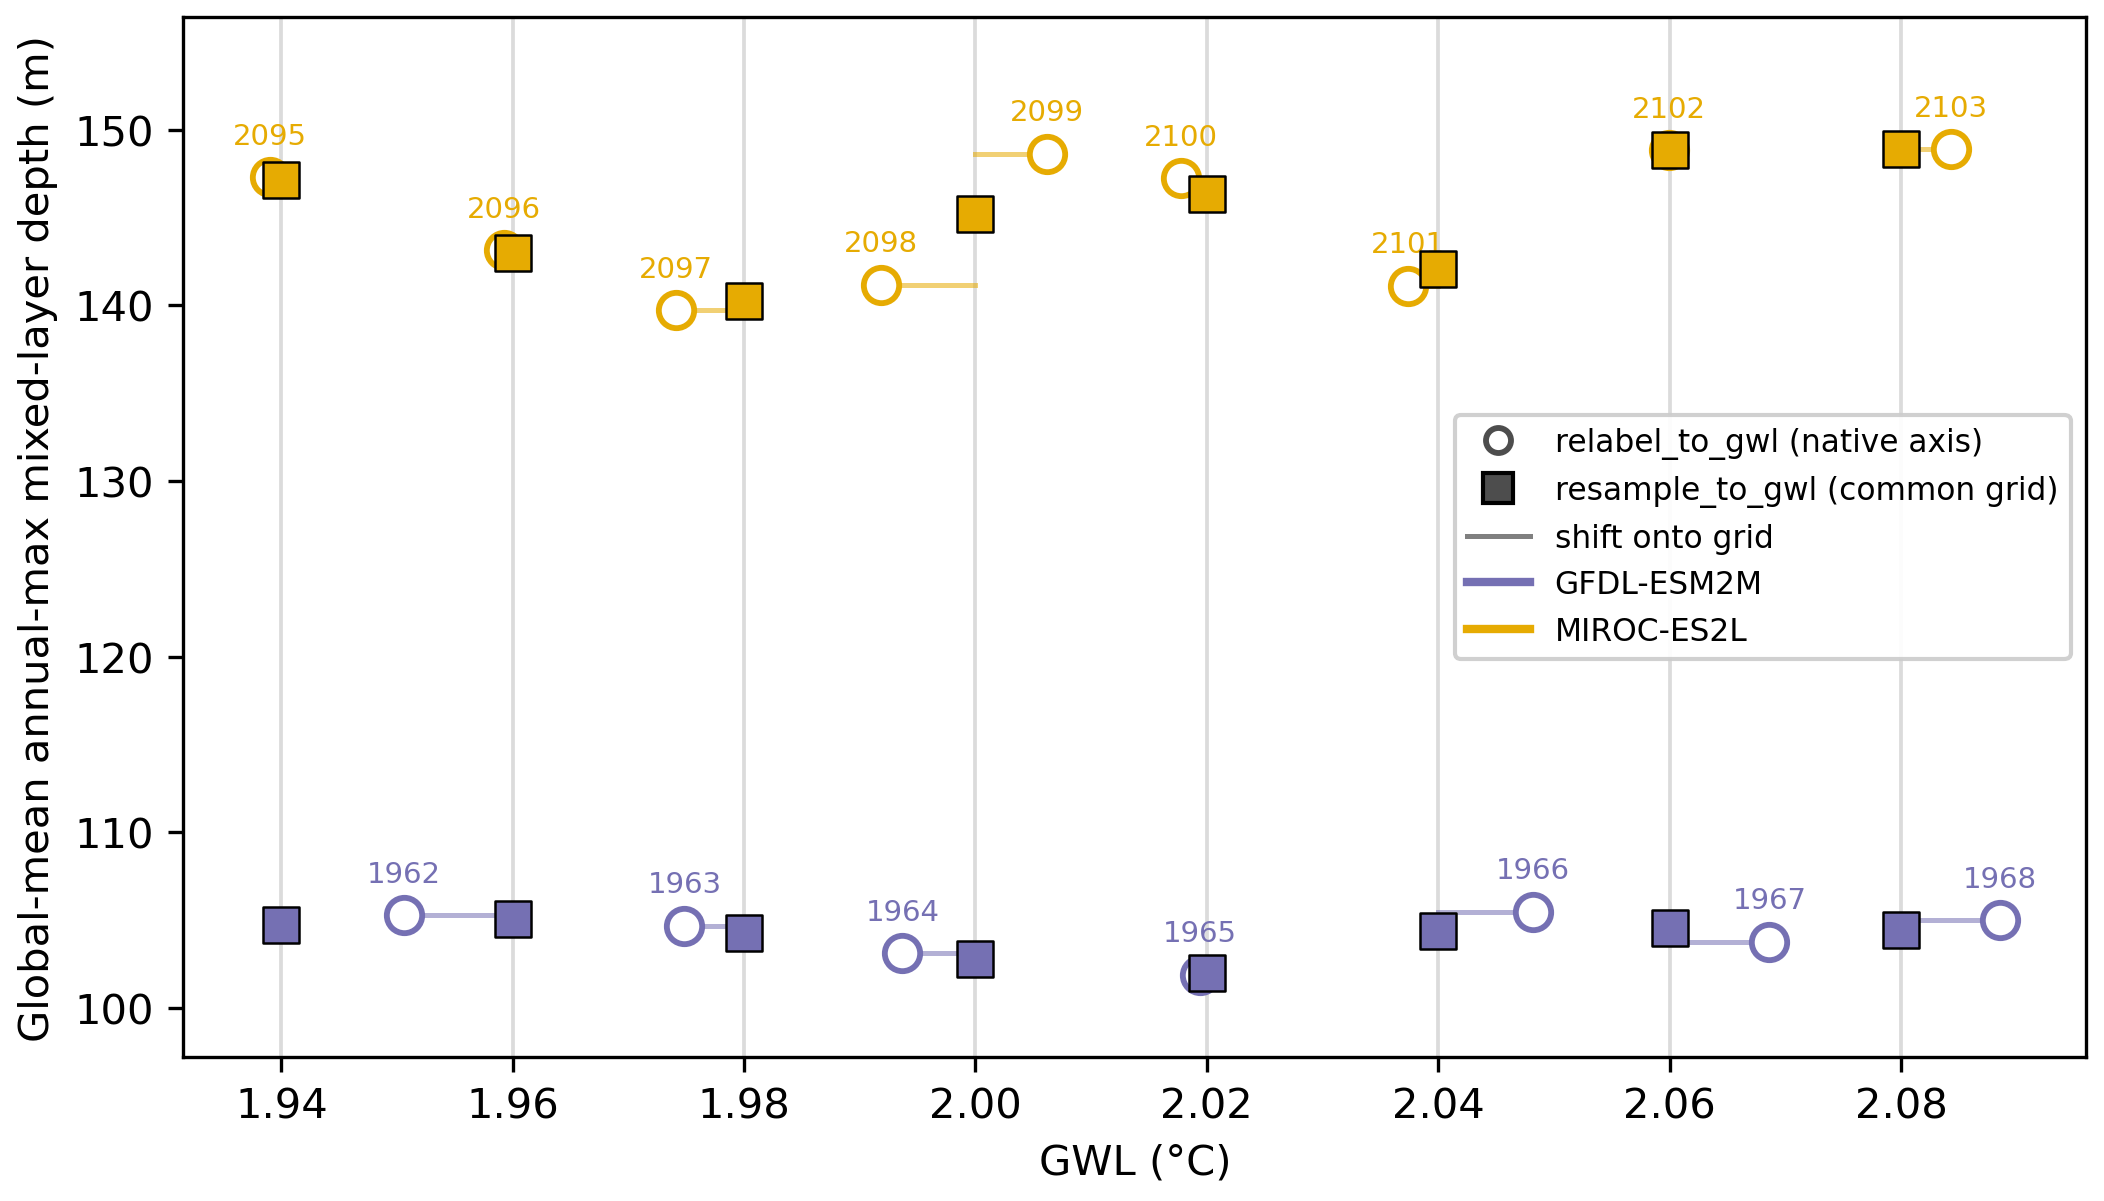
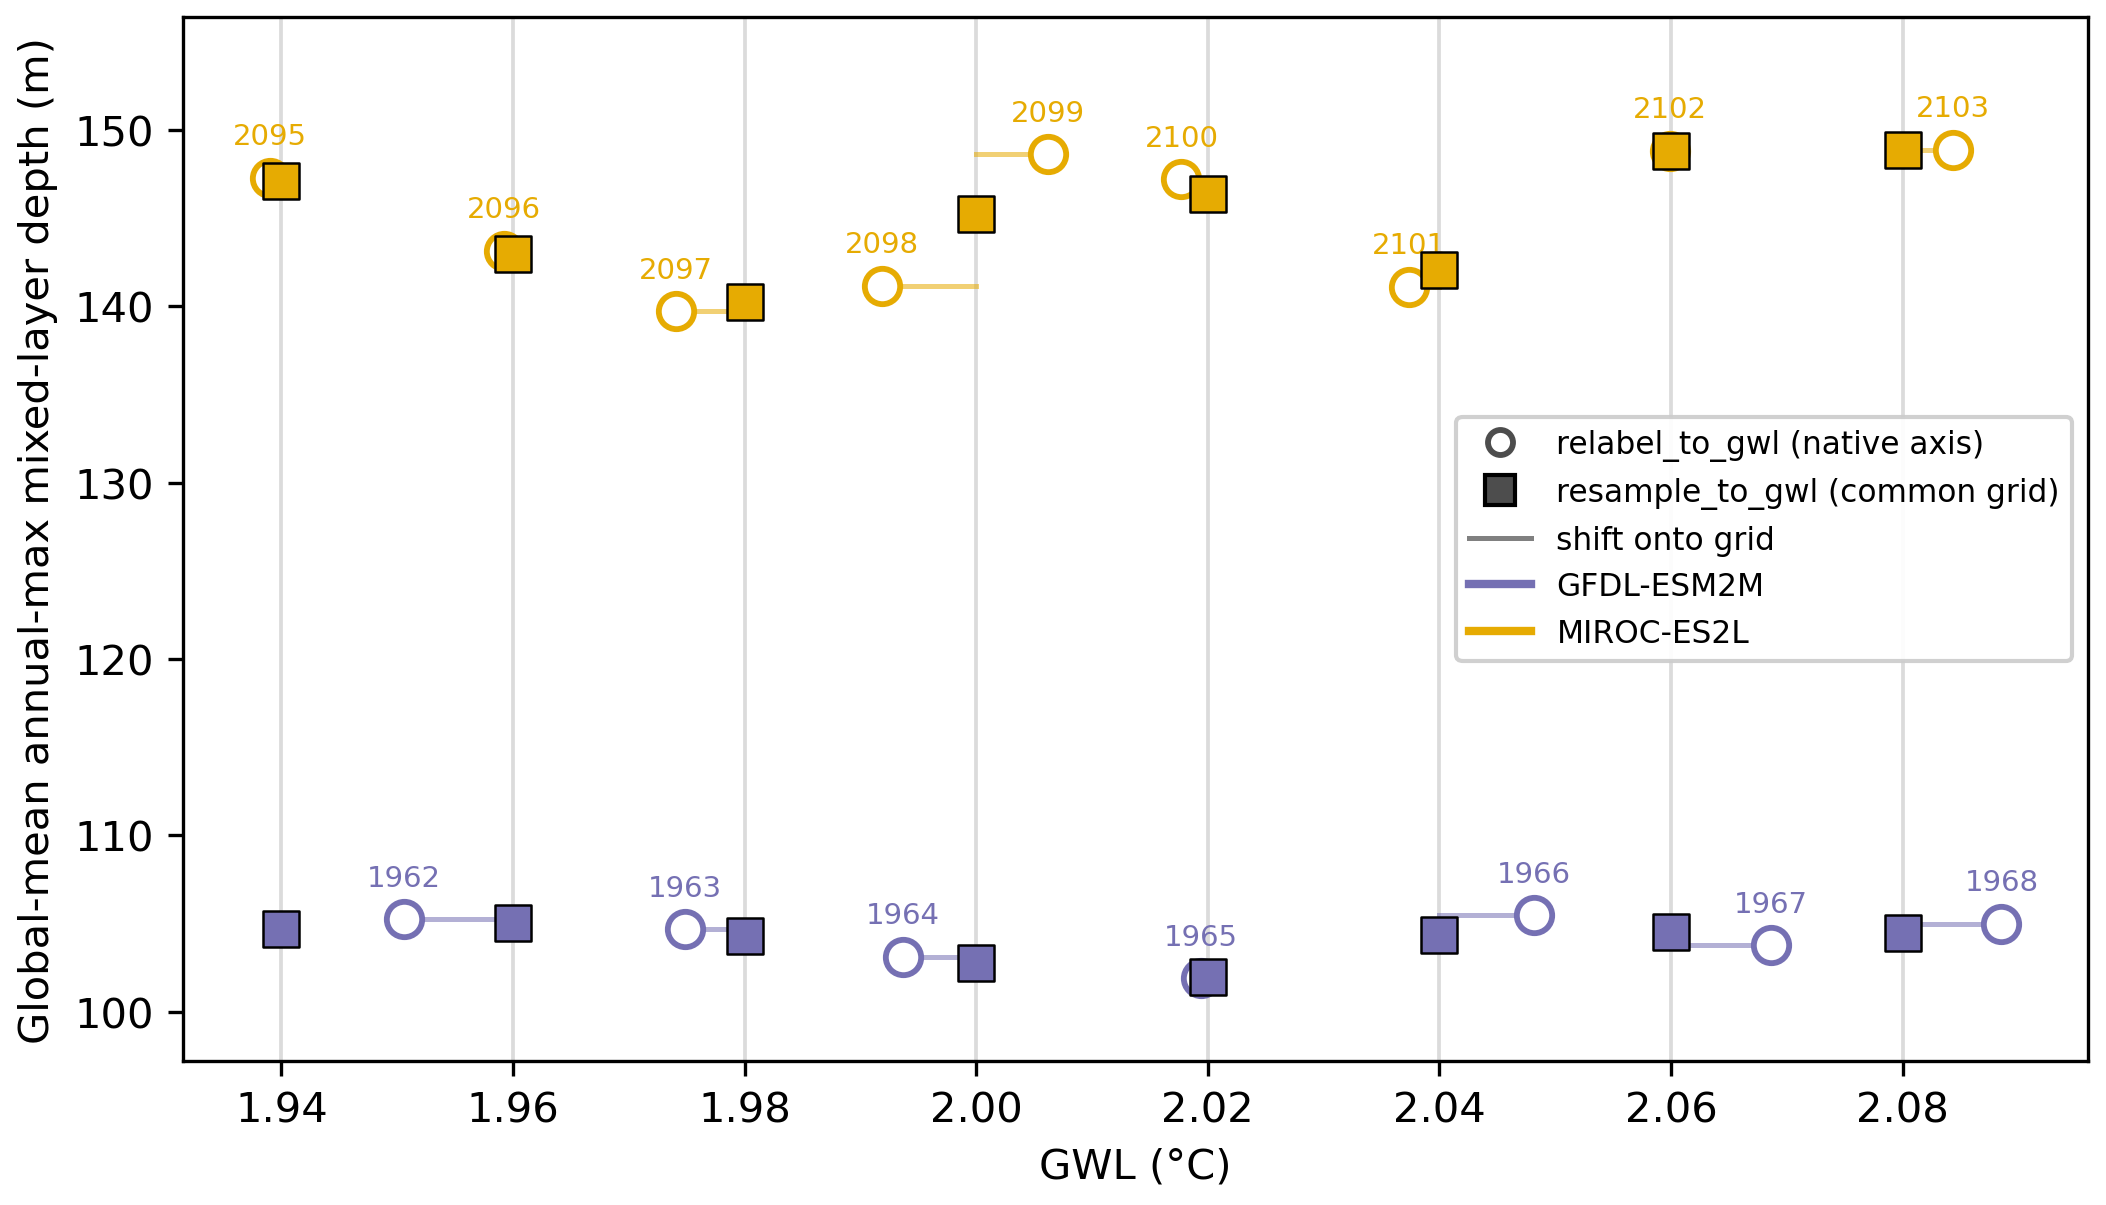
Restrict paper rebuild to bundled v1 models and refresh Fig. 3–4.
Skip CESM2 and other trial mappings in paper scripts when local staging is wider than the shipped ensemble; rebuild diagnostic remap figures from fresh mapping/.

diff --git a/paper/plot_mapping_axis_up_down.py b/paper/plot_mapping_axis_up_down.py
@@ -17,7 +17,7 @@ from pathlib import Path
 import matplotlib.pyplot as plt
 import numpy as np
 import xarray as xr
-from mlotst_remap_helpers import mapping_index_by_leg
+from mlotst_remap_helpers import bundled_models, mapping_index_by_leg
 from paper_style import model_color_map
 
 PAPER_DIR = Path(__file__).resolve().parent
@@ -122,11 +122,9 @@ def main(
     if not dn_by_leg:
         raise SystemExit(f"No ramp-down mapping files found under {mapping_dir}")
 
-    models = sorted(set(up_maps))
-    for maps in dn_by_leg.values():
-        models = sorted(set(models) & set(maps))
+    models = bundled_models(up_maps, *dn_by_leg.values())
     if not models:
-        raise SystemExit("No models with ramp-up and at least one ramp-down mapping")
+        raise SystemExit("No bundled models with ramp-up and at least one ramp-down mapping")
 
     colors = model_color_map(models)
     up_maps = {m: up_maps[m] for m in models}

diff --git a/paper/diagnostic_remap_demo.py b/paper/diagnostic_remap_demo.py
@@ -32,6 +32,7 @@ from tipmip_gwl.product import relabel_to_gwl
 from mlotst_remap_helpers import (
     GLOBAL_MLOTST_YLABEL,
     area_weighted_global_mean,
+    bundled_models,
     calendar_years,
     discover_native_mlotst,
     lat_name,
@@ -48,10 +49,10 @@ def main(mlotst_dir, mapping_dir, out_path):
 
     mlotst_files = discover_native_mlotst(mlotst_dir)
     mapping_files = mapping_index_by_rampup_model(mapping_dir)
-    models = sorted(set(mlotst_files) & set(mapping_files))
-    missing = sorted(set(mlotst_files) ^ set(mapping_files))
-    if missing:
-        print(f"note: skipping models present on only one side: {missing}")
+    models = bundled_models(mlotst_files, mapping_files)
+    skipped = sorted(set(mlotst_files) | set(mapping_files) - set(models))
+    if skipped:
+        print(f"note: skipping models outside paper bundle or missing data: {skipped}")
 
     colors = model_color_map(models)
 

diff --git a/paper/table1.py b/paper/table1.py
@@ -60,7 +60,7 @@ def _baseline_note(d, window=31):
 
 def model_order_by_ref_full(up2p0_dir, picontrol_dir, window=31) -> list[str]:
     """Return model ids sorted by ascending full piControl GMSAT (Table A1 / Fig. 3)."""
-    diags = run_diagnostics(up2p0_dir, picontrol_dir, window=window)
+    diags = run_diagnostics(up2p0_dir, picontrol_dir, window=window, bundled_only=True)
     pairs = [
         (d.pi_reference_full, d.model)
         for d in diags
@@ -71,7 +71,7 @@ def model_order_by_ref_full(up2p0_dir, picontrol_dir, window=31) -> list[str]:
 
 
 def main(up2p0_dir, picontrol_dir, window=31, out_csv=None):
-    diags = run_diagnostics(up2p0_dir, picontrol_dir, window=window)
+    diags = run_diagnostics(up2p0_dir, picontrol_dir, window=window, bundled_only=True)
 
     rows = []
     for d in diags:

diff --git a/src/tipmip_gwl/baseline.py b/src/tipmip_gwl/baseline.py
@@ -222,13 +222,22 @@ def branch_window_reference(
     return float(np.mean(vals[sel]))
 
 
-def discover_mappable_models(up2p0_dir, picontrol_dir):
+def discover_mappable_models(up2p0_dir, picontrol_dir, *, bundled_only=False):
     """Yield ``(model, ramp_up_path, picontrol_path)`` for models with piControl tas."""
     from .io import discover
+
+    if bundled_only:
+        from tipmip_gwl import list_models
+
+        allowed = set(list_models())
+    else:
+        allowed = None
 
     ru_files = discover(up2p0_dir)
     pi_files = discover(picontrol_dir)
     for model in sorted(ru_files):
+        if allowed is not None and model not in allowed:
+            continue
         pi_path = pi_files.get(model)
         if pi_path is None:
             continue

diff --git a/paper/table_mono_max.py b/paper/table_mono_max.py
@@ -20,7 +20,7 @@ import csv
 from pathlib import Path
 
 import xarray as xr
-from mlotst_remap_helpers import mapping_index_by_leg
+from mlotst_remap_helpers import bundled_models, mapping_index_by_leg
 from table1 import model_order_by_ref_full
 
 DEFAULT_OUT_CSV = Path(__file__).resolve().parent / "tables" / "table_mono_max.csv"
@@ -40,7 +40,10 @@ def _r3(x):
 
 def _mono_max_by_model(mapping_dir: Path, leg: str) -> dict[str, float]:
     out: dict[str, float] = {}
+    allowed = set(bundled_models())
     for model, path in mapping_index_by_leg(mapping_dir, leg).items():
+        if model not in allowed:
+            continue
         with xr.open_dataset(path) as ds:
             out[model] = float(ds["monotonization_max"].values)
     return out

diff --git a/scripts/run_diagnostics.py b/scripts/run_diagnostics.py
@@ -43,12 +43,20 @@ class ModelDiag:
     base_span_hi: float = float("nan")
 
 
-def run_diagnostics(up2p0_dir, picontrol_dir, window=31, detrend=False):
+def run_diagnostics(up2p0_dir, picontrol_dir, window=31, detrend=False, *, bundled_only=False):
     ru_files = discover(up2p0_dir)
     pi_files = discover(picontrol_dir)
+    if bundled_only:
+        from tipmip_gwl import list_models
+
+        allowed = set(list_models())
+    else:
+        allowed = None
     diags = []
 
     for model in sorted(ru_files):
+        if allowed is not None and model not in allowed:
+            continue
         warns: list[str] = []
         ru_path = ru_files[model]
         pi_path = pi_files.get(model)

diff --git a/paper/mean_tas_piControl.py b/paper/mean_tas_piControl.py
@@ -23,6 +23,7 @@ import xarray as xr
 from matplotlib.gridspec import GridSpec
 from matplotlib.lines import Line2D
 
+from tipmip_gwl import list_models
 from tipmip_gwl.baseline import (
     branch_year_from_attrs,
     branch_window_reference,
@@ -89,7 +90,11 @@ def main(up2p0_dir, picontrol_dir, out_path=None):
     branch_trailing = []
     model_names = []
 
+    allowed = set(list_models())
+
     for model in sorted(pi_files):
+        if model not in allowed:
+            continue
         pi_path = pi_files[model]
         pi_years, pi_gmsat = load_gmsat_nc(pi_path)
         means.append(float(np.mean(pi_gmsat)))

diff --git a/paper/mlotst_remap_helpers.py b/paper/mlotst_remap_helpers.py
@@ -12,6 +12,17 @@ from tipmip_gwl.io import model_label
 GLOBAL_MLOTST_YLABEL = "Global-mean annual-max mixed-layer depth (m)"
 
 
+def bundled_models(*model_dicts: dict[str, object]) -> list[str]:
+    """Models present in every dict and in the shipped ``v1`` bundle."""
+    from tipmip_gwl import list_models
+
+    allowed = set(list_models())
+    if not model_dicts:
+        return sorted(allowed)
+    keys = set.intersection(*(set(d.keys()) for d in model_dicts))
+    return sorted(keys & allowed)
+
+
 def lat_name(ds: xr.Dataset) -> str:
     for name in ("latitude", "lat"):
         if name in ds.coords:

diff --git a/paper/baseline_sensitivity.py b/paper/baseline_sensitivity.py
@@ -33,7 +33,9 @@ DEFAULT_OUT_CSV = Path(__file__).resolve().parent / "tables" / "baseline_sensiti
 
 def main(up2p0_dir, picontrol_dir, window=31, out_csv=None):
     rows = []
-    for model, ru_path, pi_path in discover_mappable_models(up2p0_dir, picontrol_dir):
+    for model, ru_path, pi_path in discover_mappable_models(
+        up2p0_dir, picontrol_dir, bundled_only=True
+    ):
         ru_years, _ = load_gmsat_nc(ru_path)
         pi_years, pi_gmsat = load_gmsat_nc(pi_path)
         bi = branch_year_from_attrs(read_attrs(ru_path))

diff --git a/paper/window_sensitivity.py b/paper/window_sensitivity.py
@@ -49,7 +49,9 @@ def main(
     print(hdr)
     print("-" * len(hdr))
 
-    for model, ru_path, pi_path in discover_mappable_models(up2p0_dir, picontrol_dir):
+    for model, ru_path, pi_path in discover_mappable_models(
+        up2p0_dir, picontrol_dir, bundled_only=True
+    ):
         ru_years, ru_gmsat = load_gmsat_nc(ru_path)
         pi_years, pi_gmsat = load_gmsat_nc(pi_path)
         bi = branch_year_from_attrs(read_attrs(ru_path))

diff --git a/paper/figures_1_2.py b/paper/figures_1_2.py
@@ -28,7 +28,7 @@ DEFAULT_OUT_DIR = PAPER_DIR / "figures"
 
 
 def main(up2p0_dir, picontrol_dir, window=31, out_dir=None):
-    diags = run_diagnostics(up2p0_dir, picontrol_dir, window=window)
+    diags = run_diagnostics(up2p0_dir, picontrol_dir, window=window, bundled_only=True)
     print_table(diags)
     out_dir = Path(out_dir) if out_dir else DEFAULT_OUT_DIR
     _path_a, path_b = plot_diagnostics(diags, out_dir, rampup=False)
